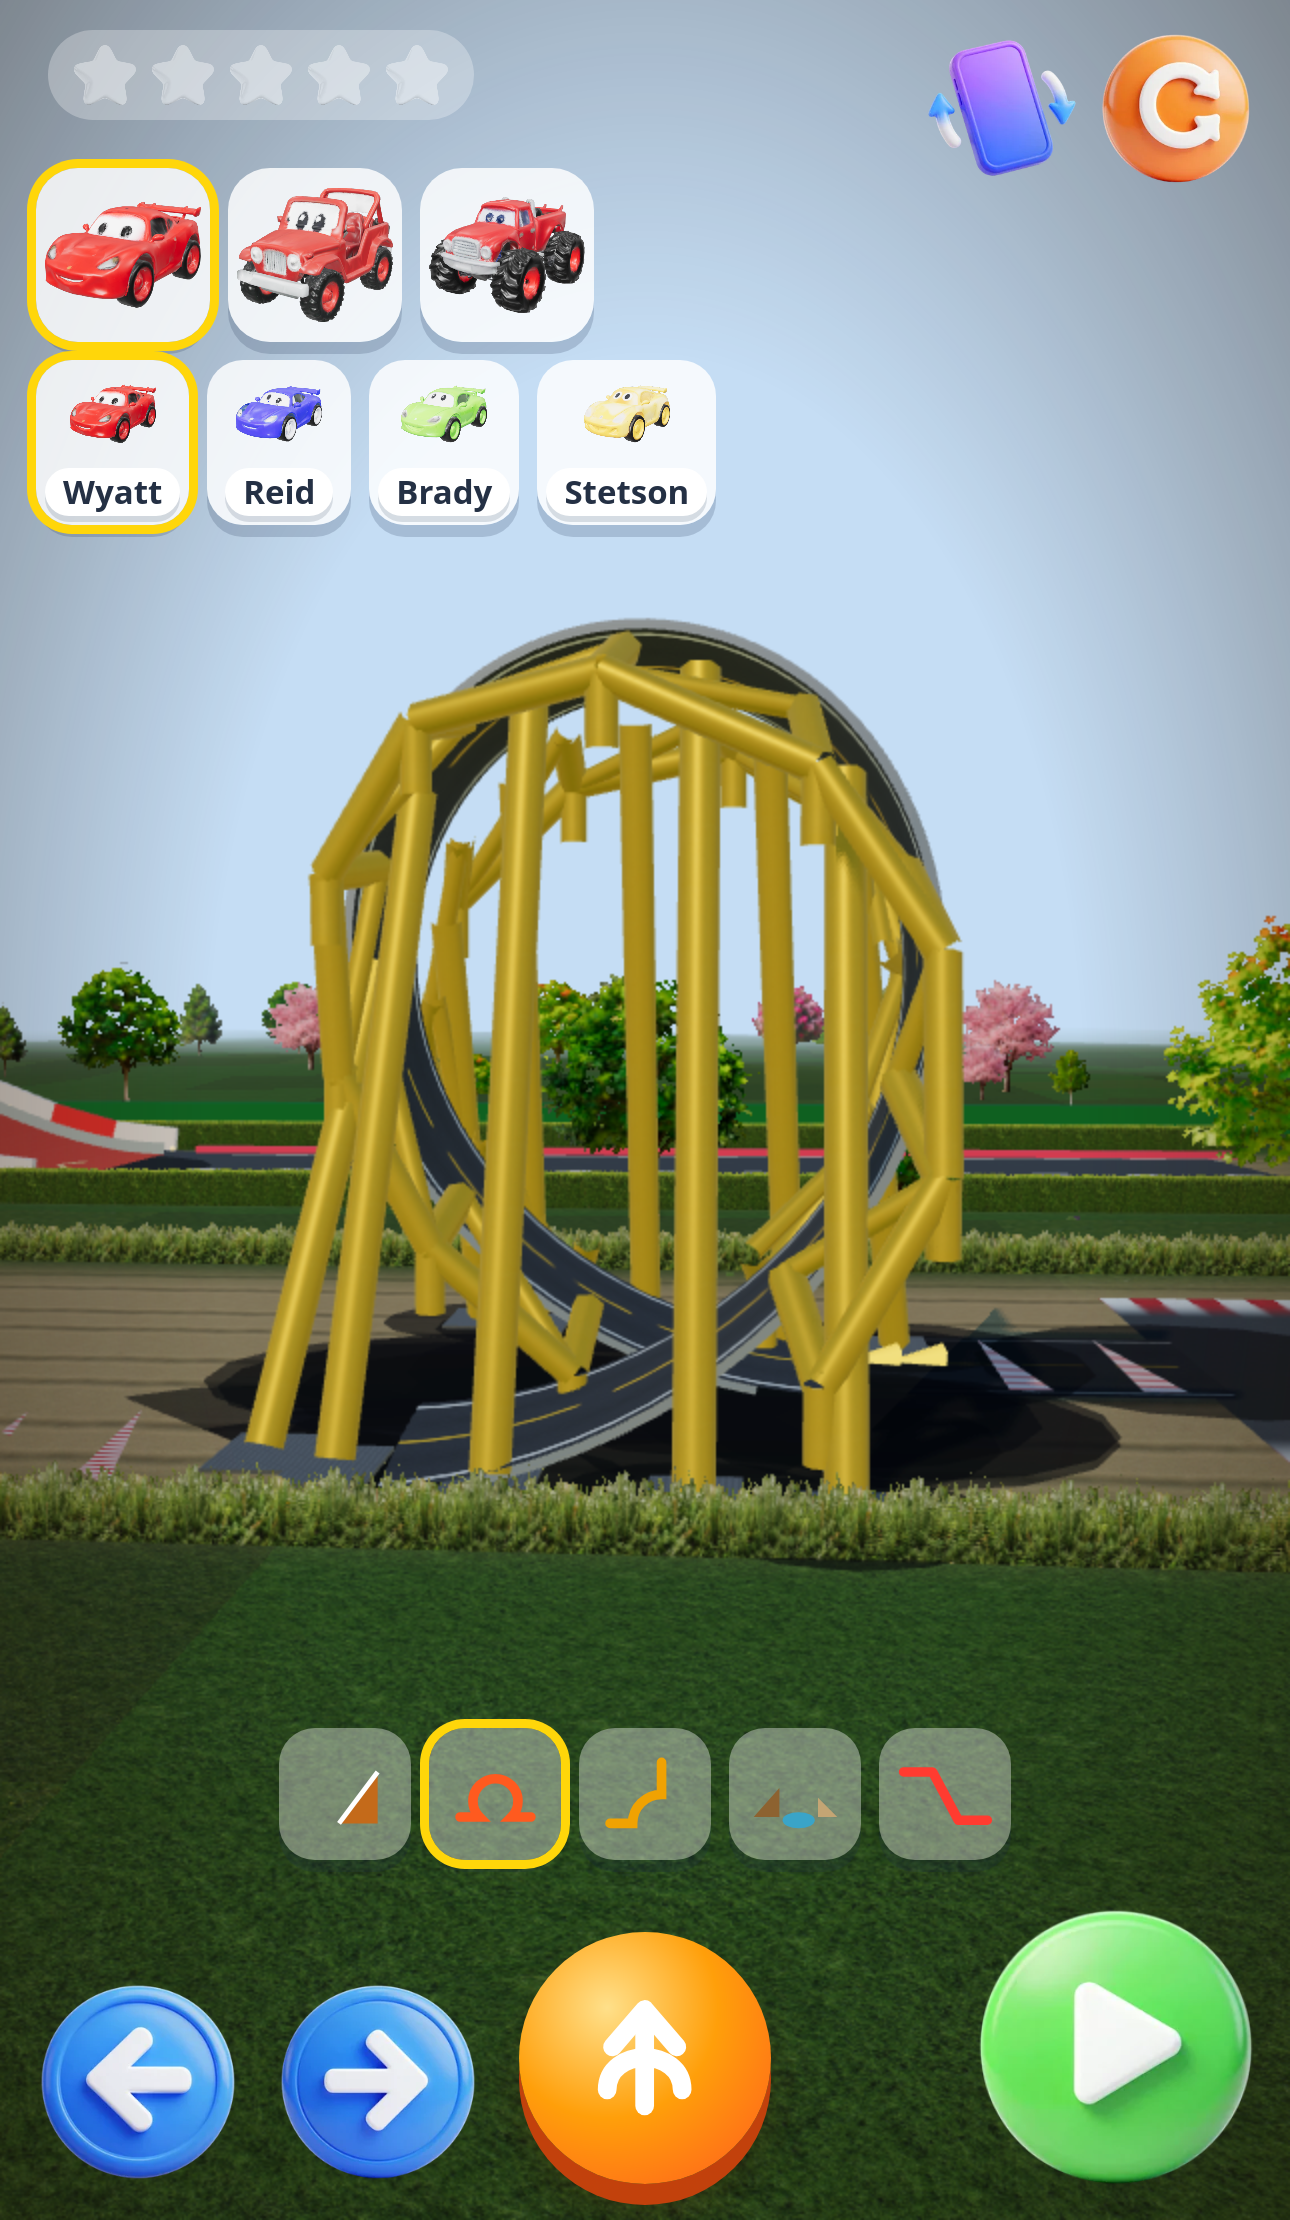
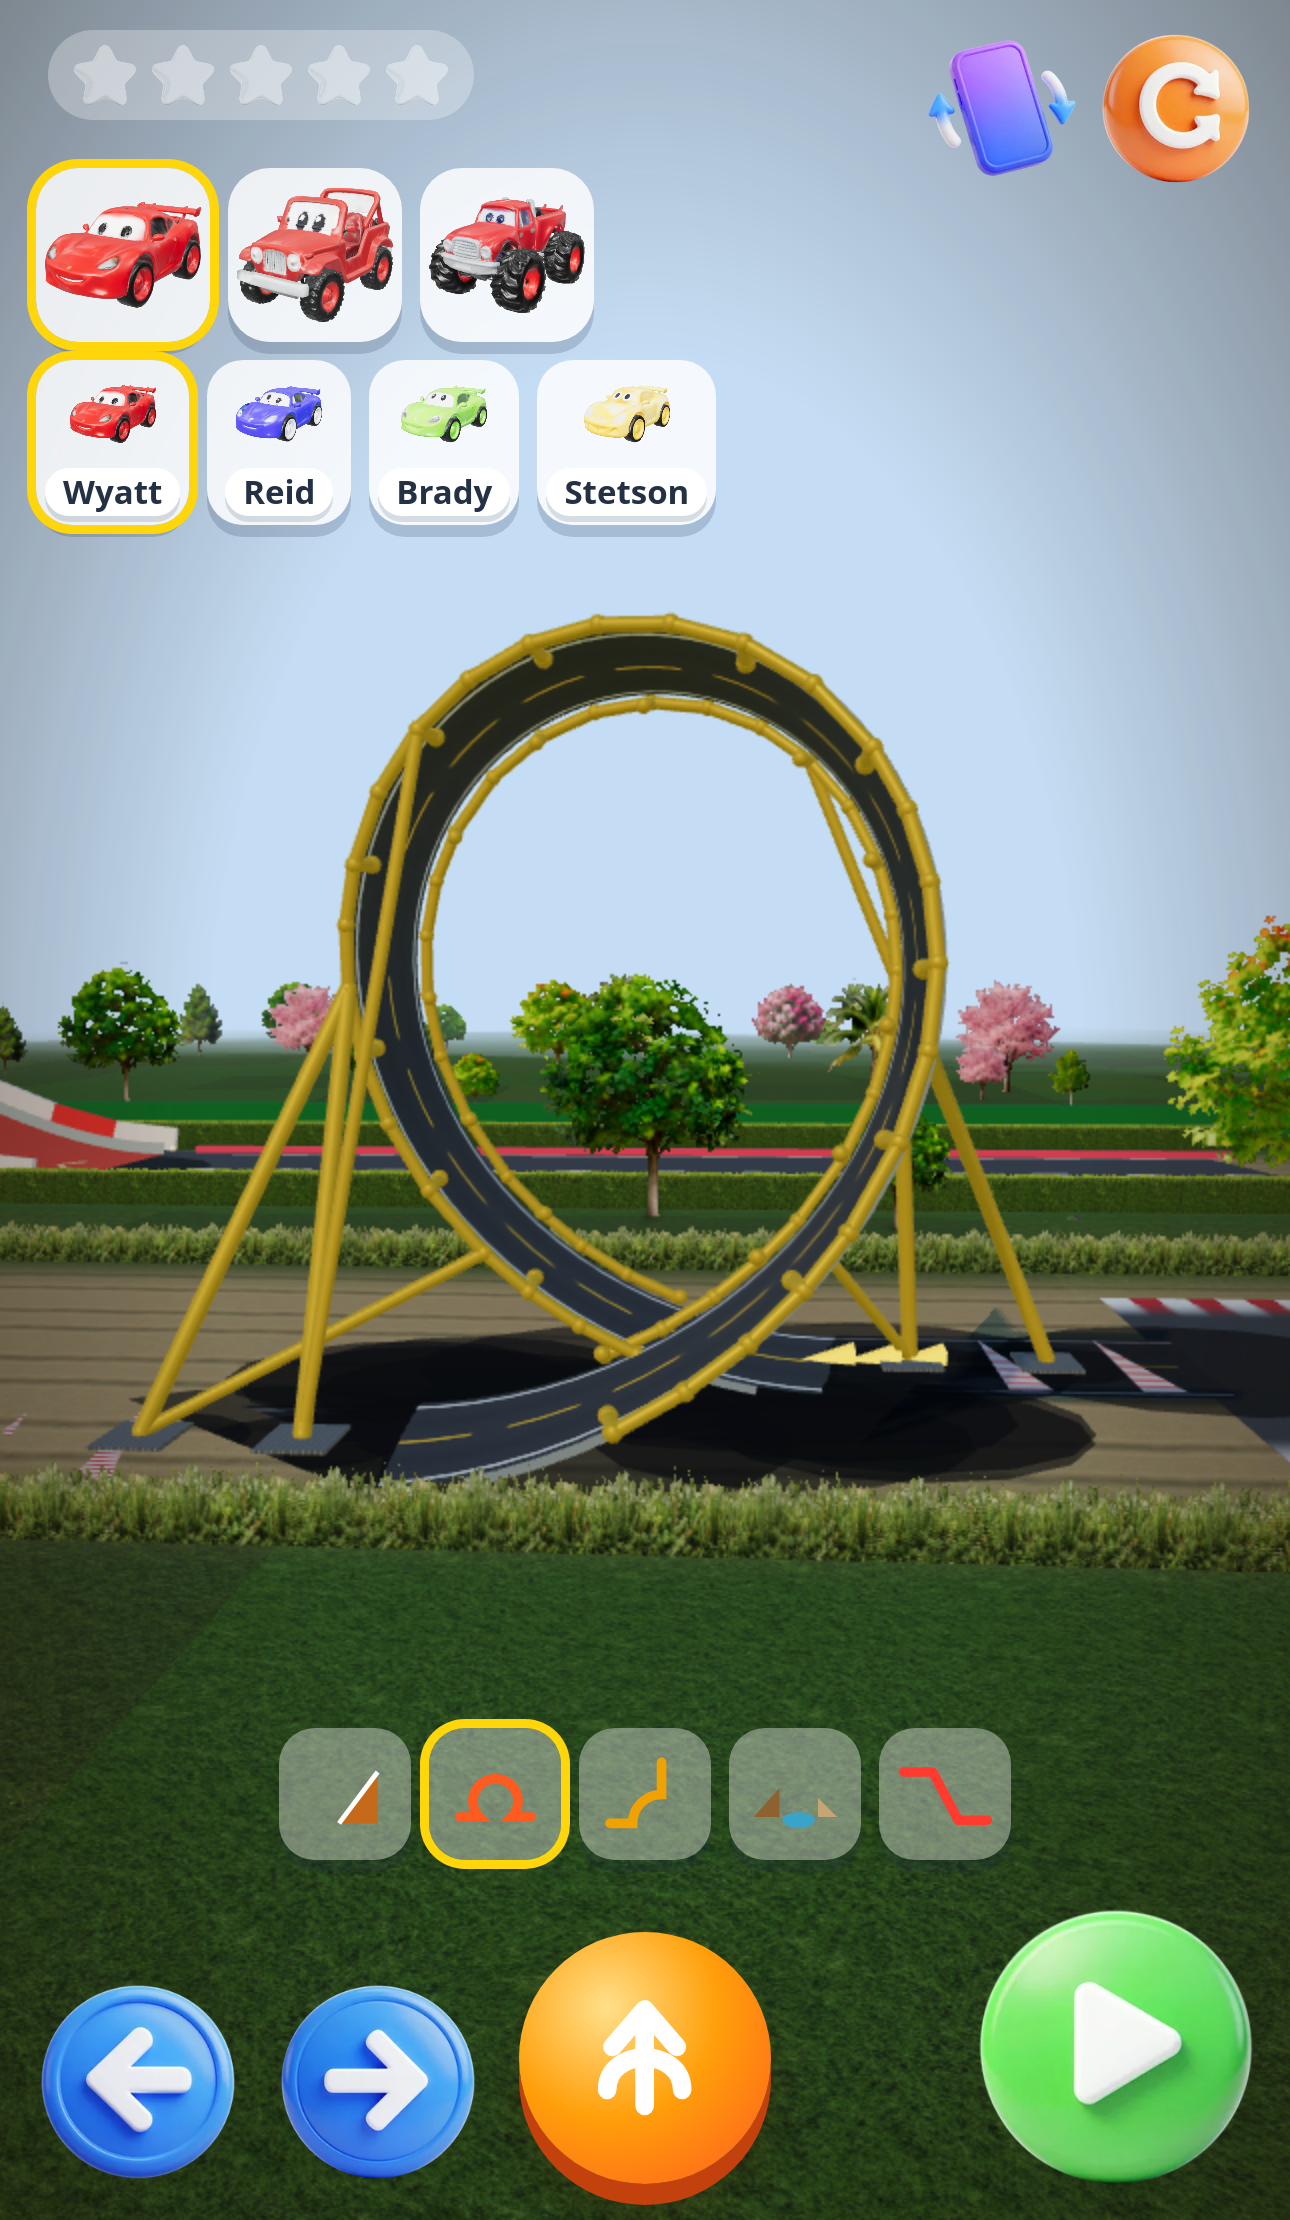
Bend the loop steel along the track and brace the mega ramp. (#18)
Ring frames are short ribs and curved stringers around the opening, with one A-frame on each side. The mega ramp gets a closer truss with X-bracing between the legs.

Changed region(s): [[0.062, 0.2486, 0.8682, 0.7149]]

diff --git a/src/game/stuntShow.ts b/src/game/stuntShow.ts
@@ -52,12 +52,15 @@ interface Build {
   steel: Tube[];
   steelBlue: Tube[];
   coping: Tube[];
+  nodes: THREE.Vector3[];
+  nodesBlue: THREE.Vector3[];
 }
 
 export async function buildStuntShow(opts: { base: string; mobile: boolean }): Promise<THREE.Group> {
   const build: Build = {
     deck: [], loopDeck: [], ply: [], diamond: [], stripe: [], hazard: [], hazardEdge: [],
     rail: [], shell: [], bumper: [], ao: [], steel: [], steelBlue: [], coping: [],
+    nodes: [], nodesBlue: [],
   };
   addLoop(build);
   addSlope(build, build.steel, build.deck, 0, 50, 78, 6.4, (z) => launchHeight(z), true);
@@ -117,13 +120,17 @@ export async function buildStuntShow(opts: { base: string; mobile: boolean }): P
 
   const yellow = slot('steel-yellow', { color: 0xffffff, roughness: 1, metalness: 0.62 });
   paint(yellow, tex.yellow, null, tex.yellowR, 1, 1, true);
+  const yellowNodes = yellow.clone();
   tubePaint(yellow);
   group.add(tubeMesh('steel-yellow', build.steel, yellow));
+  group.add(nodeMesh('steel-yellow', build.nodes, yellowNodes));
 
   const blue = slot('steel-blue', { color: 0xffffff, roughness: 1, metalness: 0.62 });
   paint(blue, tex.blue, null, tex.blueR, 1, 1, true);
+  const blueNodes = blue.clone();
   tubePaint(blue);
   group.add(tubeMesh('steel-blue', build.steelBlue, blue));
+  group.add(nodeMesh('steel-blue', build.nodesBlue, blueNodes));
 
   group.add(tubeMesh('coping-pipe', build.coping, slot('coping-pipe', { color: 0xd5dde6, roughness: 0.28, metalness: 0.82 })));
   return group;
@@ -310,6 +317,36 @@ function tubeMesh(name: string, tubes: Tube[], material: THREE.MeshStandardMater
   return mesh;
 }
 
+function nodeMesh(name: string, points: THREE.Vector3[], material: THREE.MeshStandardMaterial): THREE.InstancedMesh {
+  const unique: THREE.Vector3[] = [];
+  for (const point of points) {
+    if (!unique.some((kept) => kept.distanceToSquared(point) < 0.05)) unique.push(point);
+  }
+  const geo = new THREE.SphereGeometry(1, 8, 6);
+  const mesh = new THREE.InstancedMesh(geo, material, Math.max(1, unique.length));
+  mesh.name = name;
+  mesh.castShadow = true;
+  const dummy = new THREE.Object3D();
+  unique.forEach((point, index) => {
+    dummy.position.copy(point);
+    dummy.scale.setScalar(0.16);
+    dummy.updateMatrix();
+    mesh.setMatrixAt(index, dummy.matrix);
+  });
+  mesh.count = Math.max(1, unique.length);
+  mesh.instanceMatrix.needsUpdate = true;
+  return mesh;
+}
+
+function chain(steel: Tube[], nodes: THREE.Vector3[], points: THREE.Vector3[], radius: number): void {
+  if (!points.length) return;
+  nodes.push(points[0]);
+  for (let i = 1; i < points.length; i++) {
+    steel.push(tube(points[i - 1], points[i], radius));
+    nodes.push(points[i]);
+  }
+}
+
 function addLoop(build: Build): void {
   const frames = LOOP.frames;
   const tint = frames.map(() => WHITE);
@@ -320,46 +357,72 @@ function addLoop(build: Build): void {
   build.hazardEdge.push(edgeBand(frames, 0, 5, LOOP.halfW));
   build.hazardEdge.push(edgeBand(frames, frames.length - 6, frames.length - 1, LOOP.halfW));
 
-  let lastS = -10;
-  let prevL: THREE.Vector3 | null = null;
-  let prevR: THREE.Vector3 | null = null;
-  for (const frame of frames) {
-    if (frame.y < 1.6 || frame.s - lastS < 3.1) continue;
-    lastS = frame.s;
-    for (const side of [-1, 1]) {
-      const edge = offset(frame, side * (LOOP.halfW + 0.05), 0.35);
-      const outer = offset(frame, side * (LOOP.halfW + 1.45), -0.15);
-      outer.y = Math.max(0.7, frame.y - 0.85);
-      const low = outer.clone();
-      low.y = Math.max(0.4, outer.y - 1.15);
-      build.steel.push(tube(edge, outer, 0.3));
-      build.steel.push(tube(outer, low, 0.26));
-      const prev = side < 0 ? prevL : prevR;
-      if (prev) {
-        build.steel.push(tube(prev, outer, 0.28));
-        build.steel.push(tube(prev, edge, 0.2));
-      }
-      if (side < 0) prevL = outer;
-      else prevR = outer;
-    }
+  const arch = frames.filter((frame) => frame.y > 0.45);
+  const samples: LoopFrame[] = [];
+  let nextS = -1;
+  for (const frame of arch) {
+    if (frame.s < nextS) continue;
+    samples.push(frame);
+    nextS = frame.s + 1.05;
+  }
+  if (samples.length < 2) return;
+
+  const sideLine = (side: number) => samples.map((frame) => offset(frame, side * (LOOP.halfW + 0.62), 0.08));
+  const left = sideLine(-1);
+  const right = sideLine(1);
+  const r = 0.125;
+  chain(build.steel, build.nodes, left, r);
+  chain(build.steel, build.nodes, right, r);
+
+  let ribS = -10;
+  for (let i = 0; i < samples.length; i++) {
+    const frame = samples[i];
+    if (frame.s - ribS < 2.4) continue;
+    ribS = frame.s;
+    const edgeL = offset(frame, -(LOOP.halfW + 0.04), 0.22);
+    const edgeR = offset(frame, LOOP.halfW + 0.04, 0.22);
+    build.steel.push(tube(edgeL, left[i], r));
+    build.steel.push(tube(edgeR, right[i], r));
+    build.nodes.push(edgeL, edgeR, left[i], right[i]);
   }
 
-  const high = frames.filter((frame) => frame.y > 5.5);
-  const picks = [0.12, 0.28, 0.45, 0.62, 0.78].map((t) => high[Math.min(high.length - 1, Math.floor(t * high.length))]);
-  for (const frame of picks) {
-    if (!frame) continue;
-    for (const side of [-1, 1]) {
-      const top = offset(frame, side * (LOOP.halfW + 0.15), 0.55);
-      const foot = new THREE.Vector3(frame.x + side * (LOOP.halfW + 3.1), 0.18, frame.z + side * 0.8);
-      build.steel.push(tube(foot, top, 0.32));
-      build.diamond.push(plate(foot.x, 0.05, foot.z, 1.1, 0.7));
-      build.ao.push(disc(foot.x, foot.z, 2.2));
-    }
+  const wall = arch.filter((frame) => frame.y > 4 && frame.y < 10);
+  if (wall.length) {
+    const three = wall.reduce((best, frame) => (frame.z > best.z ? frame : best));
+    const nine = wall.reduce((best, frame) => (frame.z < best.z ? frame : best));
+    addTower(build, three, 1, samples, right);
+    addTower(build, nine, -1, samples, left);
   }
+
   for (let i = 0; i < frames.length; i += 8) {
     const frame = frames[i];
-    build.ao.push(disc(frame.x, frame.z, frame.y > 2 ? 3.6 : 4.4));
+    build.ao.push(disc(frame.x, frame.z, frame.y > 2 ? 3.2 : 4.2));
   }
+}
+
+function addTower(build: Build, frame: LoopFrame, side: number, samples: LoopFrame[], line: THREE.Vector3[]): void {
+  let apexI = 0;
+  let best = Infinity;
+  for (let i = 0; i < samples.length; i++) {
+    const d = Math.hypot(samples[i].x - frame.x, samples[i].y - frame.y, samples[i].z - frame.z);
+    if (d < best) {
+      best = d;
+      apexI = i;
+    }
+  }
+  const apex = line[apexI];
+  const zDir = Math.sign(frame.z - LOOP.midZ) || 1;
+  const footA = new THREE.Vector3(apex.x + side * 1.7, 0.14, frame.z + zDir * 0.4);
+  const footB = new THREE.Vector3(apex.x + side * 1.7, 0.14, frame.z + zDir * 3.1);
+  const leg = 0.16;
+  build.steel.push(tube(footA, apex, leg), tube(footB, apex, leg));
+  build.nodes.push(apex, footA, footB);
+  build.diamond.push(plate(footA.x, 0.05, footA.z, 0.85, 0.6), plate(footB.x, 0.05, footB.z, 0.85, 0.6));
+  build.ao.push(disc(footA.x, footA.z, 1.8), disc(footB.x, footB.z, 1.8));
+
+  const braceAt = [apexI + 4, apexI - 4].map((index) => line[Math.max(0, Math.min(line.length - 1, index))]);
+  build.steel.push(tube(footA, braceAt[0], 0.12), tube(footB, braceAt[1], 0.12));
+  build.nodes.push(braceAt[0], braceAt[1]);
 }
 
 interface PathPoint {
@@ -397,22 +460,24 @@ function addSlope(
   build.rail.push(wall(frames, half, 0.55));
   build.rail.push(wall(frames, -half, 0.55));
   if (chevron) build.hazard.push(chevronStrip(frames, half));
-  let prev: { l: THREE.Vector3; r: THREE.Vector3 } | null = null;
-  for (let i = 0; i < frames.length; i += 5) {
-    const frame = frames[i];
-    if (frame.y < 0.8) continue;
-    const l = offset(frame, -(half + 0.35), -0.35);
-    const r = offset(frame, half + 0.35, -0.35);
-    l.y = Math.max(0.35, frame.y - 0.55);
-    r.y = l.y;
-    steel.push(tube(new THREE.Vector3(frame.x - half, 0.2, frame.z), l, 0.16));
-    steel.push(tube(new THREE.Vector3(frame.x + half, 0.2, frame.z), r, 0.16));
+  const nodes = steel === build.steel ? build.nodes : build.nodesBlue;
+  let prev: { l: THREE.Vector3; r: THREE.Vector3; footL: THREE.Vector3; footR: THREE.Vector3 } | null = null;
+  let lastZ = -1e9;
+  for (const frame of frames) {
+    if (frame.y < 0.9 || frame.z - lastZ < 2.3) continue;
+    lastZ = frame.z;
+    const l = offset(frame, -(half + 0.15), -0.2);
+    const r = offset(frame, half + 0.15, -0.2);
+    const footL = new THREE.Vector3(frame.x - half - 0.15, 0.12, frame.z);
+    const footR = new THREE.Vector3(frame.x + half + 0.15, 0.12, frame.z);
+    steel.push(tube(footL, l, 0.14), tube(footR, r, 0.14), tube(l, r, 0.1));
+    nodes.push(l, r, footL, footR);
     if (prev) {
-      steel.push(tube(prev.l, l, 0.14));
-      steel.push(tube(prev.r, r, 0.14));
-      steel.push(tube(l, r, 0.12));
+      steel.push(tube(prev.l, l, 0.1), tube(prev.r, r, 0.1));
+      steel.push(tube(prev.l, r, 0.08), tube(prev.r, l, 0.08));
+      nodes.push(prev.l, prev.r);
     }
-    prev = { l, r };
+    prev = { l, r, footL, footR };
   }
   const lip = frames[frames.length - 1];
   for (const side of [-1, 1]) {
